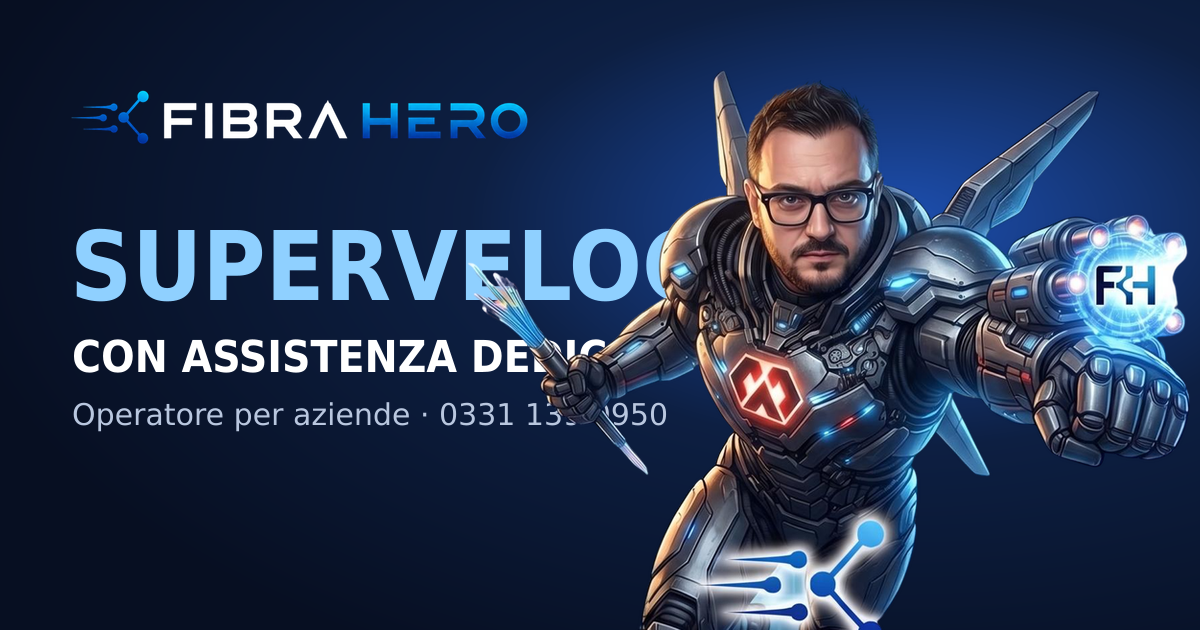
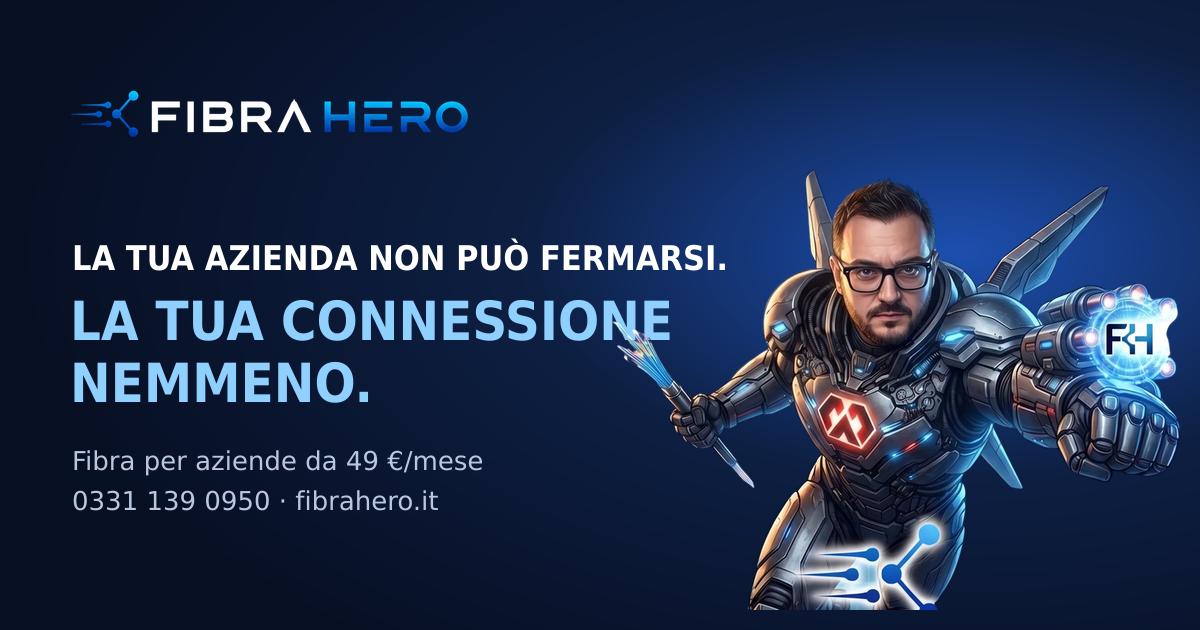
Nuovo titolo home, listino prezzi da (fibra 49, backup 19, firewall 39, centralino 19), pagina Prezzi, presa in carico in giornata
Claude-Session: https://claude.ai/code/session_01PihN7E3WQAvQHMHRyrkNuJ

diff --git a/src/data/inbreve.ts b/src/data/inbreve.ts
@@ -9,7 +9,8 @@ export const FATTI: { k: string; v: string }[] = [
   { k: 'Per chi', v: 'Solo aziende, professionisti e partite IVA: uffici, studi, negozi e capannoni. Non offre servizi ai privati.' },
   { k: 'Cosa offre', v: 'Fibra FTTH e FTTC (in FTTH anche profili simmetrici, dove disponibili), gestione della rete e dei dispositivi, firewall, backup della connessione, centralino cloud VoIP e noleggio di router, switch, access point e firewall.' },
   { k: 'Dove opera', v: 'Province di Varese, Milano (Alto Milanese e Nord Milano) e Lecco, con assistenza dalle sei sedi G8A (la sede operativa di Solbiate Arno e cinque negozi): ' + sedi + '.' },
-  { k: 'Assistenza', v: 'Diretta, dai tecnici G8A: nessun call center. Verifica da remoto e intervento in sede quando serve.' },
+  { k: 'Assistenza', v: 'Diretta, dai tecnici G8A: nessun call center. Presa in carico del problema in giornata nei giorni lavorativi, verifica da remoto e intervento in sede quando serve.' },
+  { k: 'Prezzi di partenza', v: 'Fibra da 49 €, linea di backup da 19 €, firewall gestito da 39 €, centralino cloud da 19 € al mese, IVA esclusa. Il prezzo finale si conferma dopo la verifica dell\'indirizzo.' },
   { k: 'Cosa lo distingue', v: 'Linea, rete interna, firewall e centralino sono gestiti dalla stessa squadra, quindi non c\'è rimpallo tra operatore e informatico.' },
   { k: 'Verifica copertura', v: 'Online sul sito, per indirizzo e civico, oppure su WhatsApp e al telefono ' + SITE.phone + '.' },
   { k: 'Società', v: `${SITE.company}, ${SITE.legalAddress}, P.IVA ${SITE.vat}. Gruppo G8A, attivo da circa quindici anni nell'informatica per le aziende, con i brand TonerHero e RiparoHero.` },
@@ -22,5 +23,6 @@ export const DOMANDE: { q: string; a: string }[] = [
   { q: 'Chi fa assistenza ai clienti FibraHero?', a: 'I tecnici di G8A Technology, direttamente e senza call center, da remoto o in sede.' },
   { q: 'FibraHero fornisce anche il centralino?', a: 'Sì: un centralino cloud VoIP con IVR, gruppi di squillo, registrazioni, app per smartphone, chat, videoconferenze e WhatsApp integrato, con portabilità dei numeri.' },
   { q: 'In quali comuni opera FibraHero?', a: 'In particolare Gallarate, Busto Arsizio, Varese, Legnano, Saronno, Bollate, Rho, Lecco e i comuni vicini alle sedi G8A. Altre zone si valutano per indirizzo.' },
+  { q: 'Quanto costa FibraHero?', a: 'La fibra per aziende parte da 49 € al mese IVA esclusa; si possono aggiungere linea di backup (da 19 €), firewall gestito (da 39 €) e centralino cloud (da 19 €).' },
   { q: 'Come si contatta FibraHero?', a: `Al telefono o su WhatsApp allo ${SITE.phone}, via email a ${SITE.email}, oppure dal sito con la verifica copertura.` },
 ];

diff --git a/src/data/servizi.ts b/src/data/servizi.ts
@@ -3,6 +3,8 @@ export type Servizio = {
   slug: string;
   name: string;
   icon: 'fibra' | 'rete' | 'firewall' | 'backup' | 'voip' | 'noleggio';
+  // Prezzo di partenza al mese, IVA esclusa. Se assente, il prezzo non viene mostrato.
+  priceFrom?: number;
   short: string;
   title: string;
   description: string;
@@ -17,6 +19,7 @@ export type Servizio = {
 export const SERVIZI: Servizio[] = [
   {
     slug: 'fibra-ultraveloce-aziende',
+    priceFrom: 49,
     name: 'Fibra ultraveloce',
     icon: 'fibra',
     short: 'Fibra FTTH e FTTC ad alte prestazioni e stabile, con profili simmetrici in FTTH dove disponibili.',
@@ -77,6 +80,7 @@ export const SERVIZI: Servizio[] = [
   },
   {
     slug: 'firewall-aziendale',
+    priceFrom: 39,
     name: 'Firewall',
     icon: 'firewall',
     short: 'Proteggiamo la tua azienda da minacce e accessi indesiderati, con regole di sicurezza su misura.',
@@ -105,6 +109,7 @@ export const SERVIZI: Servizio[] = [
   },
   {
     slug: 'backup-connessione-aziendale',
+    priceFrom: 19,
     name: 'Backup rete',
     icon: 'backup',
     short: 'Soluzioni di backup della rete e dei collegamenti internet, per restare sempre connessi.',
@@ -132,6 +137,7 @@ export const SERVIZI: Servizio[] = [
   },
   {
     slug: 'centralino-cloud-voip',
+    priceFrom: 19,
     name: 'Centralino cloud VoIP',
     icon: 'voip',
     short: 'Centralino in cloud completo: IVR, gruppi, registrazioni, app, chat, videoconferenze e WhatsApp integrato.',
@@ -235,3 +241,7 @@ export const SERVIZI: Servizio[] = [
     ],
   },
 ];
+
+export const euro = (n: number) => `${n.toLocaleString('it-IT')} €`;
+export const LISTINO = SERVIZI.filter((s) => s.priceFrom != null);
+export const NOTA_PREZZI = 'Prezzi mensili IVA esclusa. Il prezzo finale dipende dalla tecnologia disponibile all\'indirizzo e dalla configurazione: lo confermiamo in offerta dopo la verifica.';

diff --git a/src/data/faq.ts b/src/data/faq.ts
@@ -21,7 +21,7 @@ export const FAQ_GENERALI = [
   },
   {
     q: 'Cosa succede se la linea non funziona?',
-    a: 'Contatti direttamente noi, anche su WhatsApp. Un tecnico G8A verifica la linea da remoto e, se serve, interviene in sede.',
+    a: 'Contatti direttamente noi, al telefono o su WhatsApp. Nei giorni lavorativi un tecnico G8A prende in carico il problema in giornata, verifica la linea da remoto e, se serve, interviene in sede. La rete pubblica in strada non dipende da noi: per questo consigliamo una linea di backup che entra in funzione da sola.',
   },
   {
     q: 'Possiamo tenere i numeri di telefono attuali?',

diff --git a/src/data/site.ts b/src/data/site.ts
@@ -11,6 +11,10 @@ export const SITE = {
   whatsappDisplay: '0331 139 0950',
   whatsapp: '3903311390950',
   whatsappText: 'Ciao FibraHero, vorrei un\'offerta per la connessione della mia azienda.',
+  // Assistenza: orari della sede e impegno di presa in carico.
+  // TODO: inserire gli orari reali della sede (es. 'lun–ven 9:00–13:00 e 14:00–18:30'). Se vuoto, non vengono mostrati.
+  orari: '',
+  presaInCarico: 'in giornata',
   // Dati societari (registro imprese). Obbligatori sul sito per una S.r.l.
   vat: '03981970126',
   legalAddress: 'Via Caronno Varesino 33, 21048 Solbiate Arno (VA)',

diff --git a/src/pages/llms.txt.ts b/src/pages/llms.txt.ts
@@ -20,6 +20,7 @@ export const GET: APIRoute = () => {
     '## Pagine principali',
     `- [FibraHero in breve](${u('/fibrahero-in-breve')}): fatti essenziali e risposte brevi`,
     `- [Verifica copertura](${u('/verifica-copertura')}): verifica FTTH/FTTC per indirizzo e civico`,
+    `- [Prezzi](${u('/prezzi')}): prezzi di partenza dei servizi`,
     `- [Chi siamo](${u('/chi-siamo')}): il gruppo G8A, storia, brand e sedi`,
     `- [Domande frequenti](${u('/domande-frequenti')})`,
     '',
